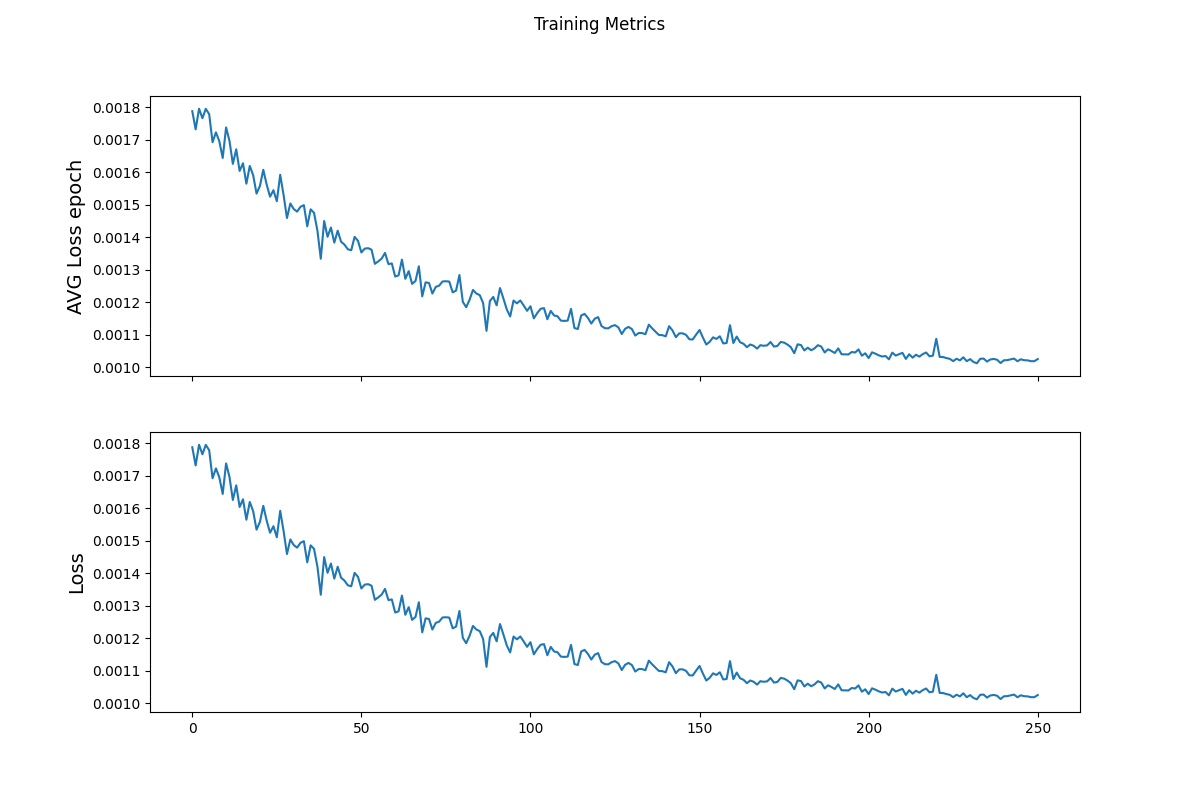
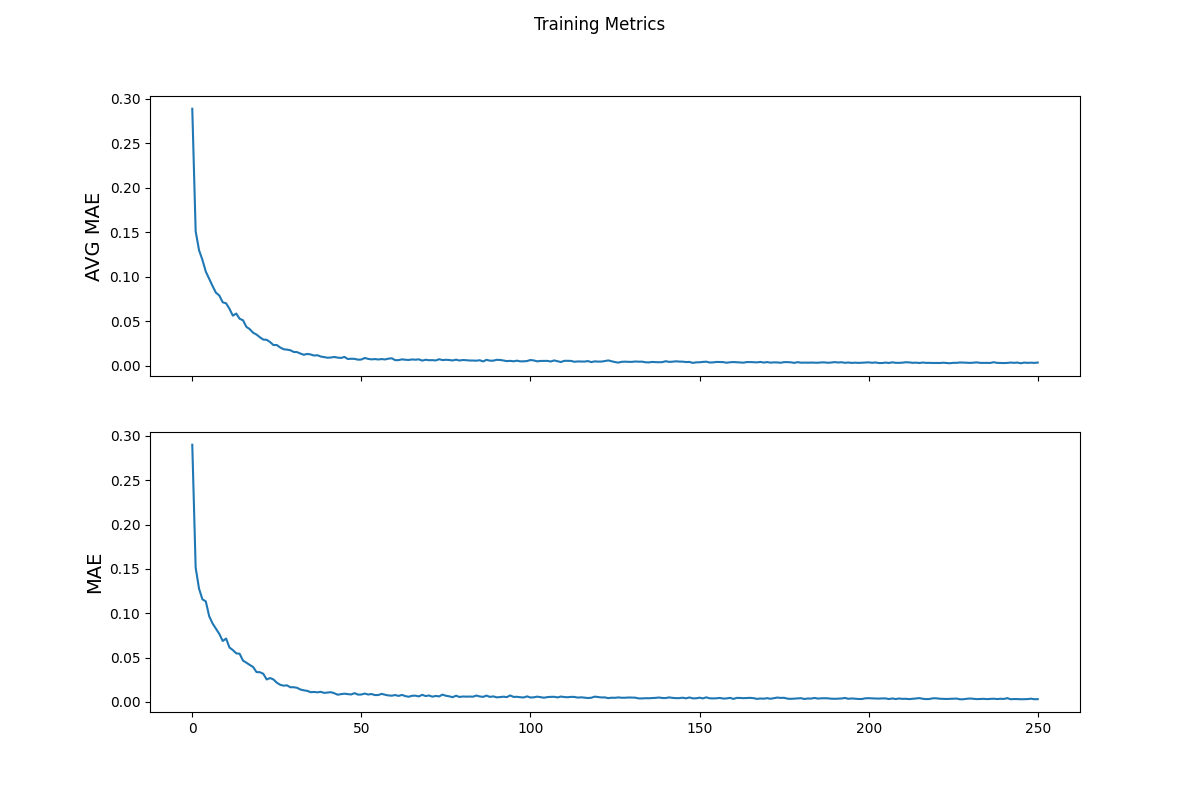
dropout layer added. Different metric tested.

diff --git a/dnn_model.py b/dnn_model.py
@@ -37,12 +37,13 @@ train = dataset.map(pack_features_vector)
 #BUILD THE MODEL
 model = tf.keras.models.Sequential([
     tf.keras.layers.Dense(20, activation='relu', input_shape=(7,)),
+    tf.keras.layers.Dropout(0.1),
     tf.keras.layers.Dense(10, activation='relu'),
     tf.keras.layers.Dense(1)
 ])
 print(model.summary())
 #TRAIN
-loss_obj = tf.keras.losses.MeanSquaredLogarithmicError()
+loss_obj = tf.keras.losses.MeanAbsoluteError()
 def loss(model, x, y, training):
     y_ = model(x, training=training)
     return loss_obj(y_true=y, y_pred=y_)
@@ -56,14 +57,14 @@ def scalar(data):
     data = (data-np.mean(data))/np.std(data)
     return data
 
-optimizer = tf.keras.optimizers.SGD(learning_rate=0.0001)
+optimizer = tf.keras.optimizers.SGD(learning_rate=0.001)
 
 train_loss_results = []
 train_accuracy_results = []
 num_epochs = 251
 for epoch in range(num_epochs):
   epoch_loss_avg = tf.keras.metrics.Mean()
-  epoch_accuracy = tf.keras.metrics.MeanSquaredLogarithmicError()
+  epoch_accuracy = tf.keras.metrics.MeanAbsoluteError()
 
   # Training loop - using batches of 32
   for x, y in train:
@@ -84,18 +85,21 @@ for epoch in range(num_epochs):
   train_accuracy_results.append(epoch_accuracy.result())
 
   if epoch % 50 == 0:
-    print("Epoch {:03d}: Loss: {:.3f}, Accuracy: {:.3%}".format(epoch,
+    print("Epoch {:03d}: AVG Loss: {:.3f}, Loss: {:.3%}".format(epoch,
                                                                 epoch_loss_avg.result(),
                                                                 epoch_accuracy.result()))
 
 
 fig, axes = plt.subplots(2, sharex=True, figsize=(12, 8))
 fig.suptitle('Training Metrics')
-axes[0].set_ylabel("AVG Loss epoch", fontsize=14)
+axes[0].set_ylabel("AVG MAE", fontsize=14)
+plt.grid()
 axes[0].plot(train_loss_results)
 
 
-axes[1].set_ylabel("Loss", fontsize=14)
+axes[1].set_ylabel("MAE", fontsize=14)
+plt.grid()
 axes[1].plot(train_accuracy_results)
+
 plt.savefig('plots/training_metrics.png')
 plt.show()
